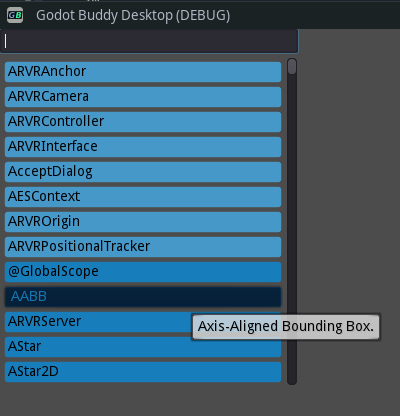
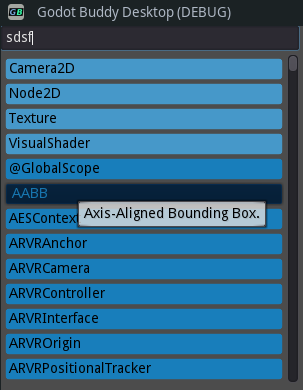
Improve readme page

diff --git a/README.md b/README.md
@@ -17,4 +17,10 @@ The **Class Explorer** is an advanced way to explore the available classes in th
 
 ![Class List](resources/class-explorer.png)
 
+At the top is a search box to filter the listed class names.
+
+Your most-clicked classes are listed at the top and highlighted, and the rest listed below in alphabetical order. Also, the basic description of the class is displayed if you hover over a button.
+
+Clicking on one of the buttons will open a page showing information about the class together with your custom meta-data and other relevant info.
+
 This is a work in progress ...
